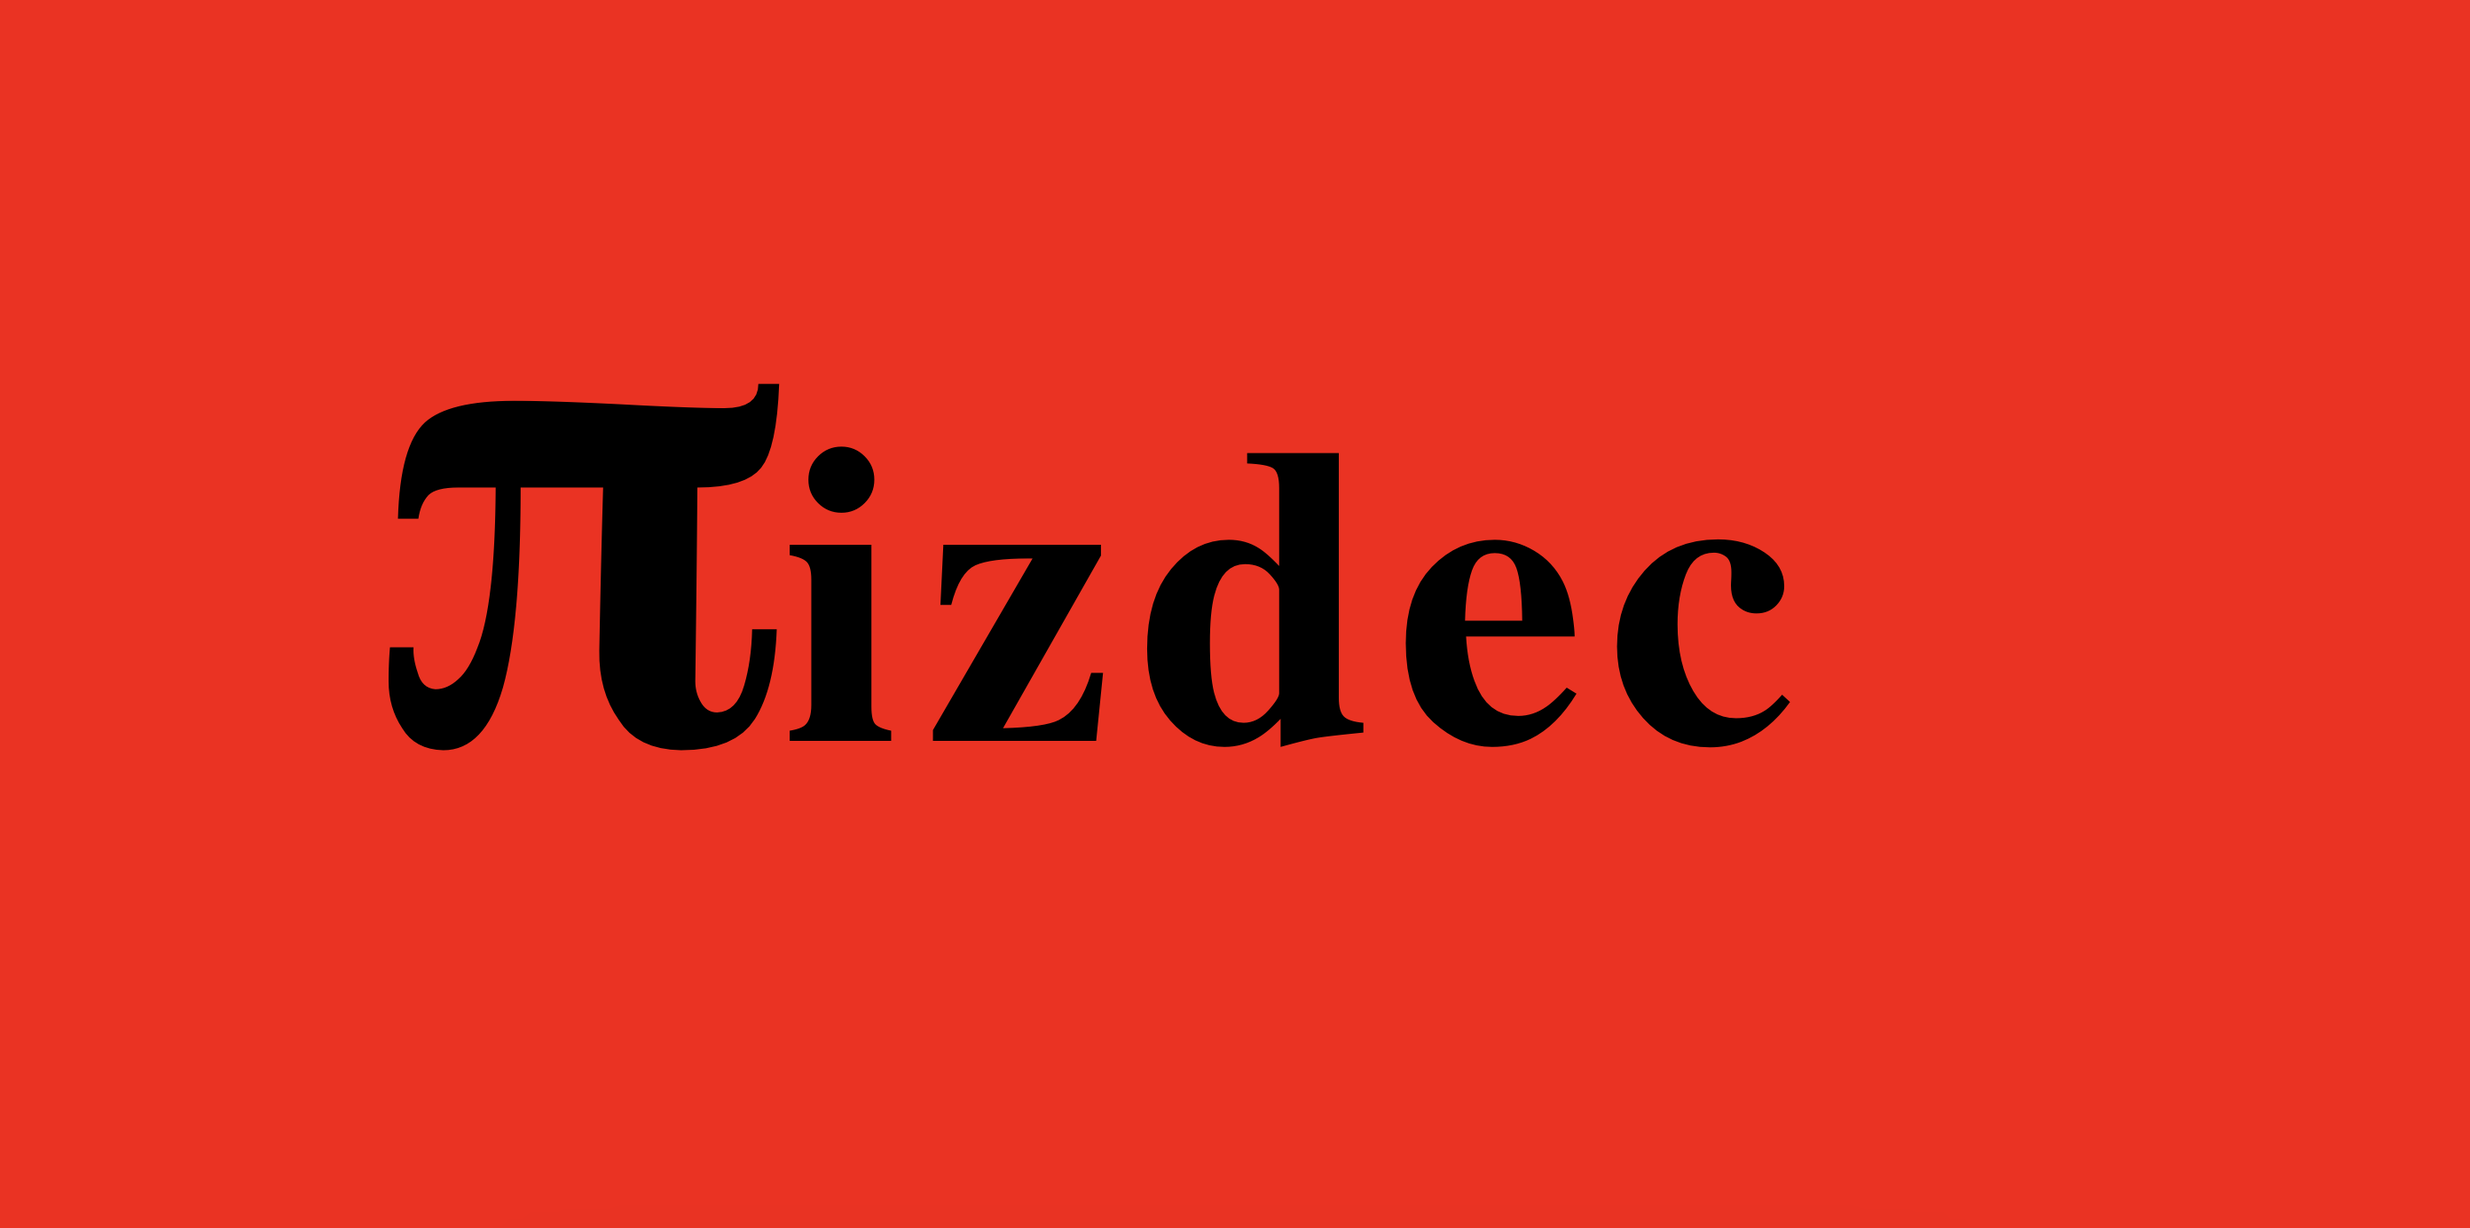
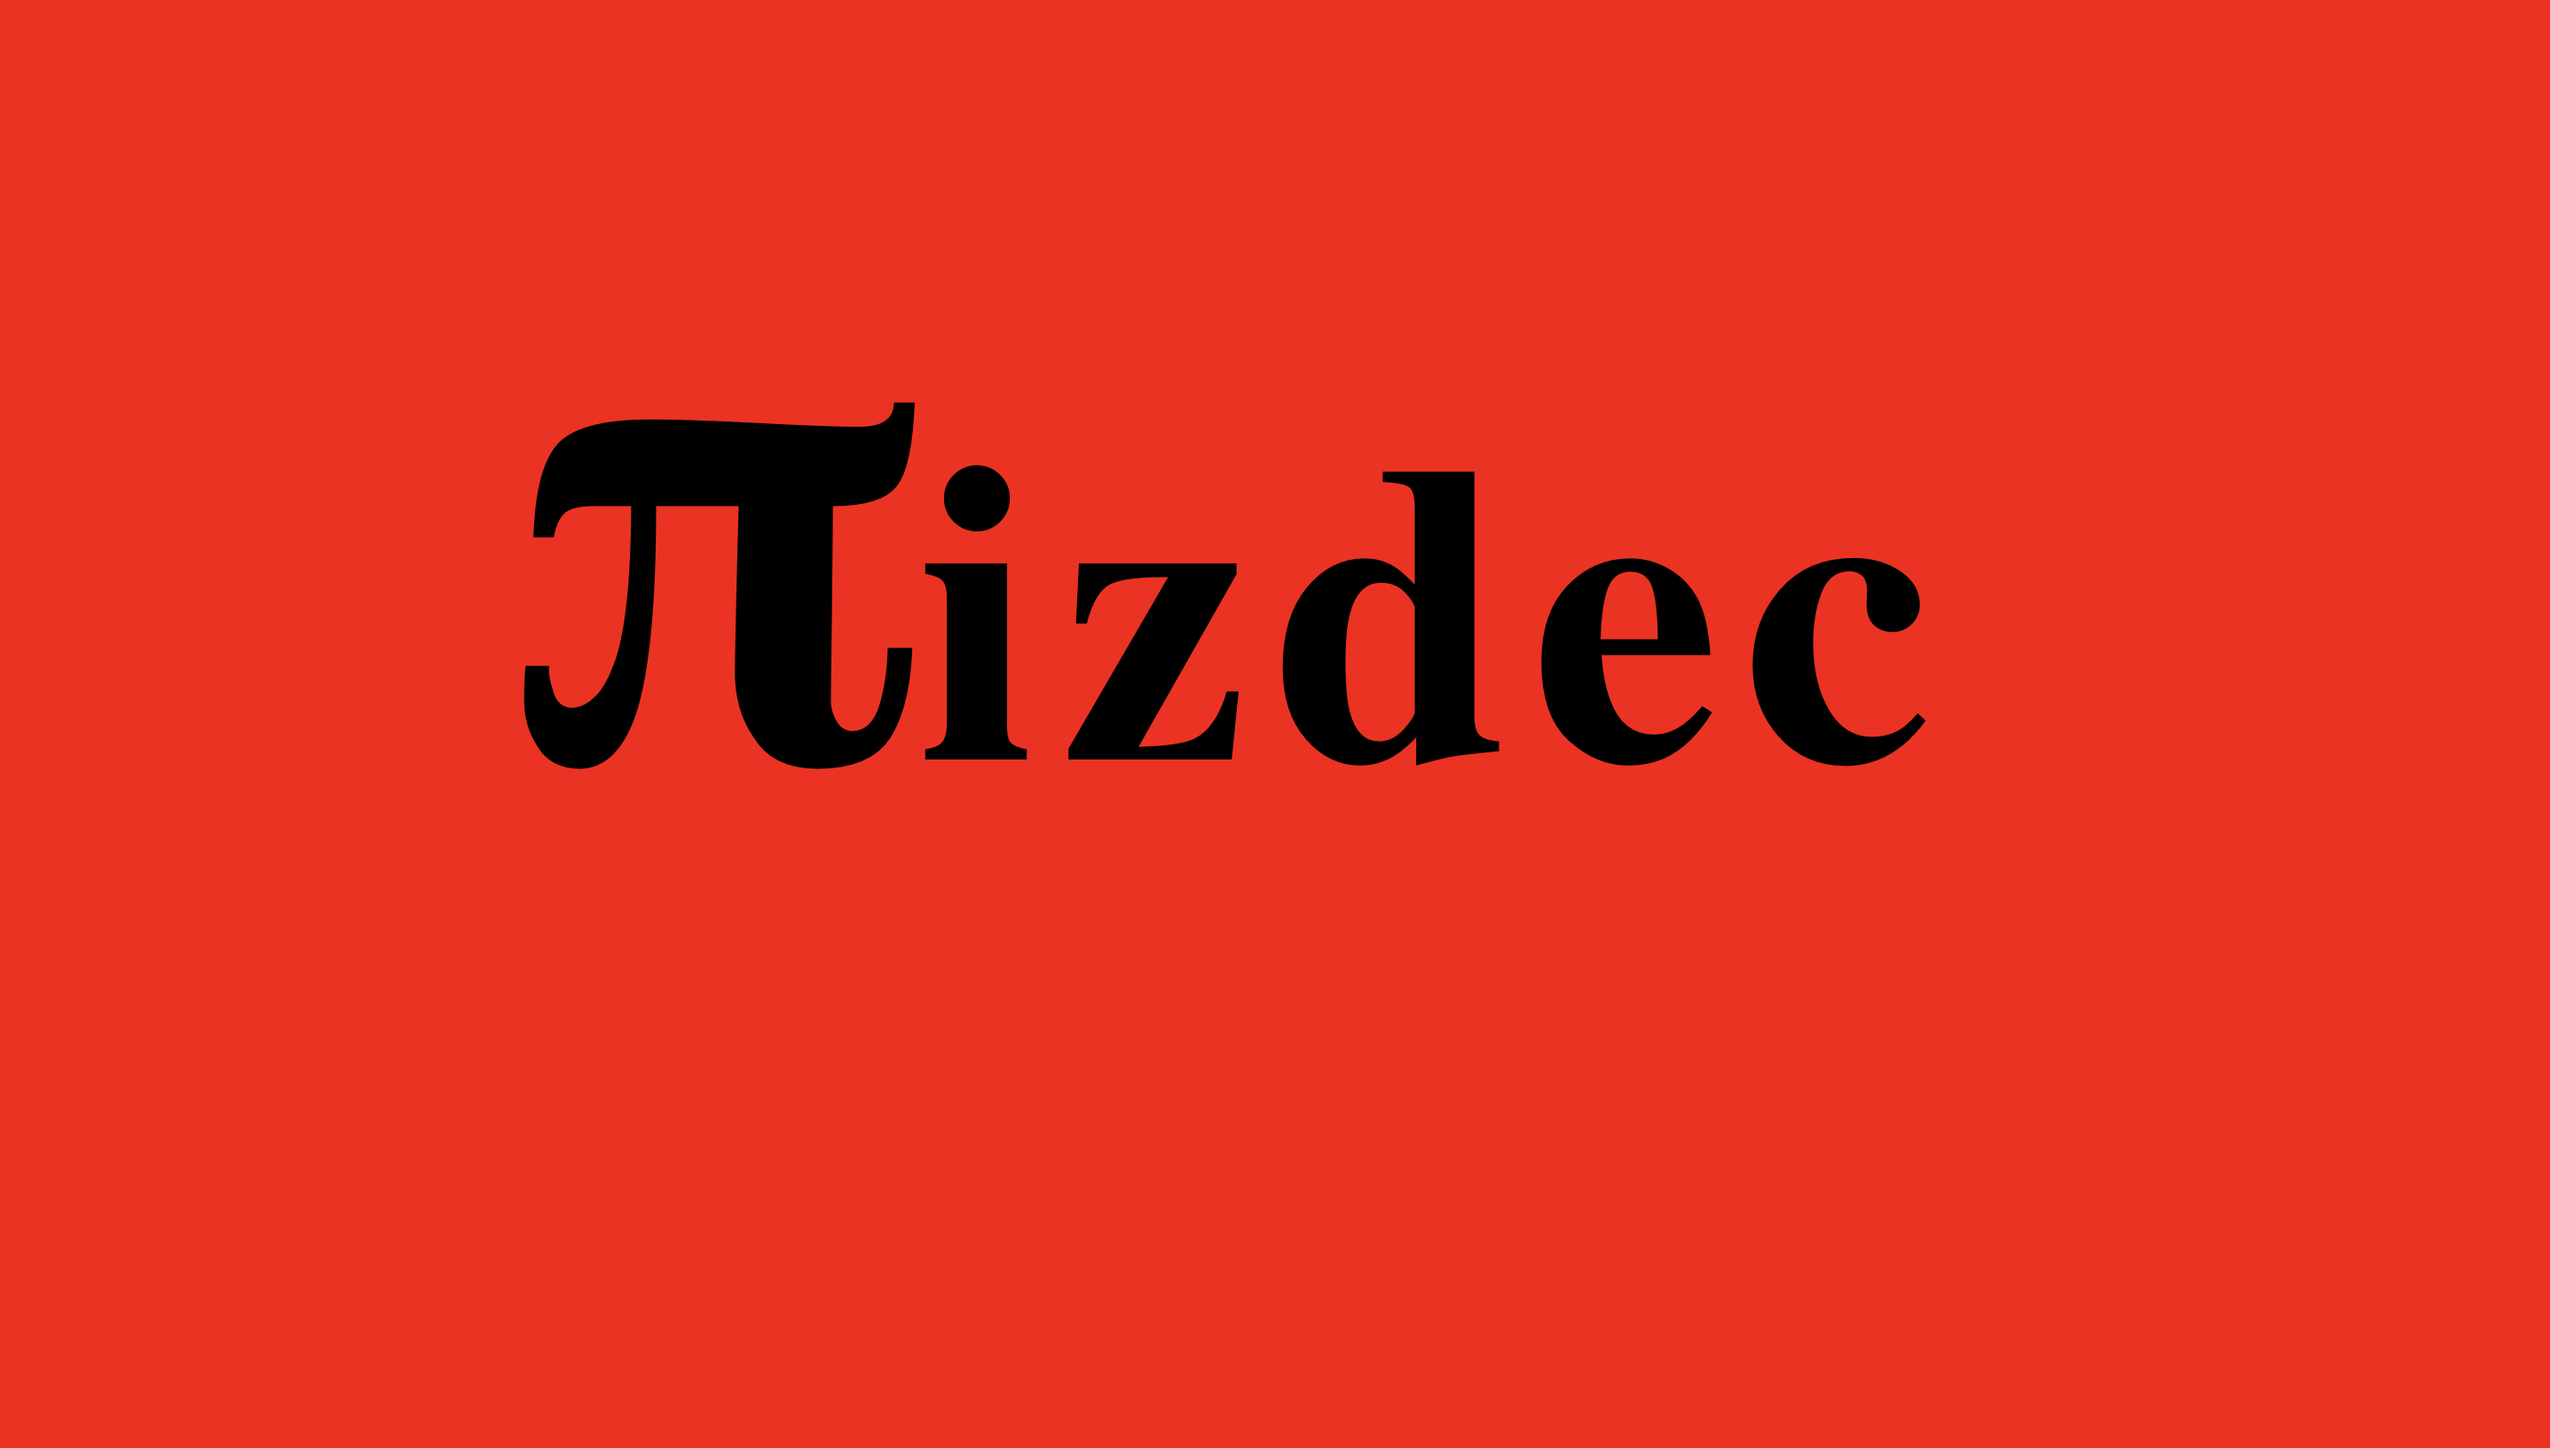
pizdec4 modified plus wallpaper screen

Changed region(s): [[0.1562, 0.2796, 0.75, 0.6214]]

diff --git a/Д0суг/5/style4.css b/Д0суг/5/style4.css
@@ -9,7 +9,7 @@ body {
 .black_container {
   color: black;
   margin-top: 5%;
-  margin-left: 15%;
+  margin-left: 20%;
   font-weight: bold;
   letter-spacing: 13px;
   width: 100%;
